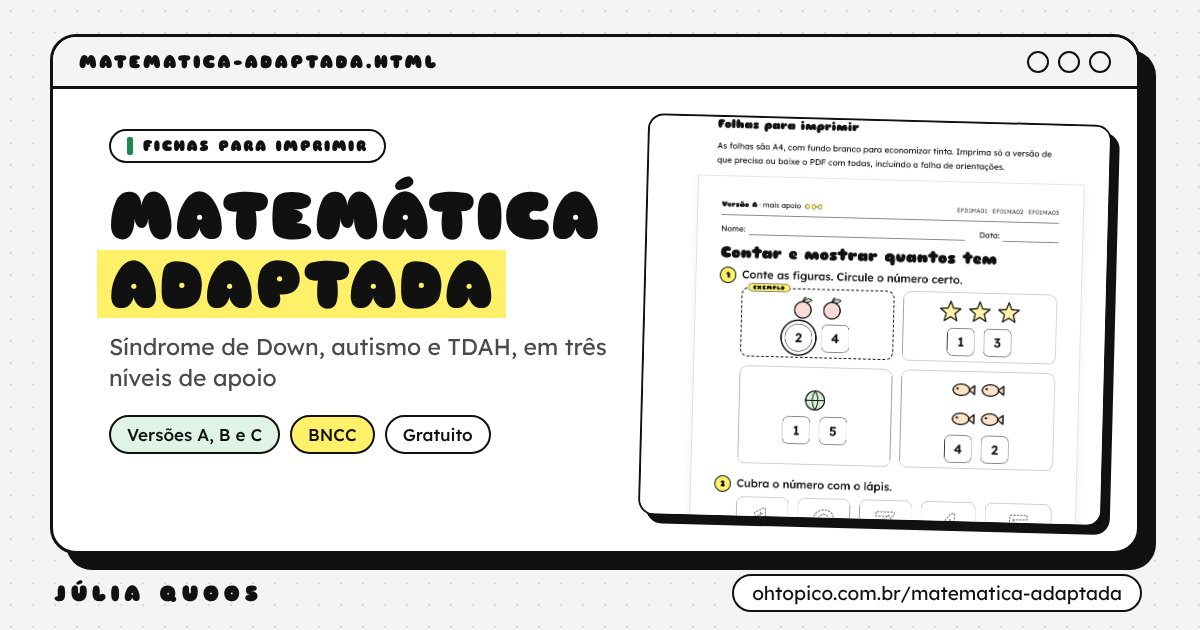
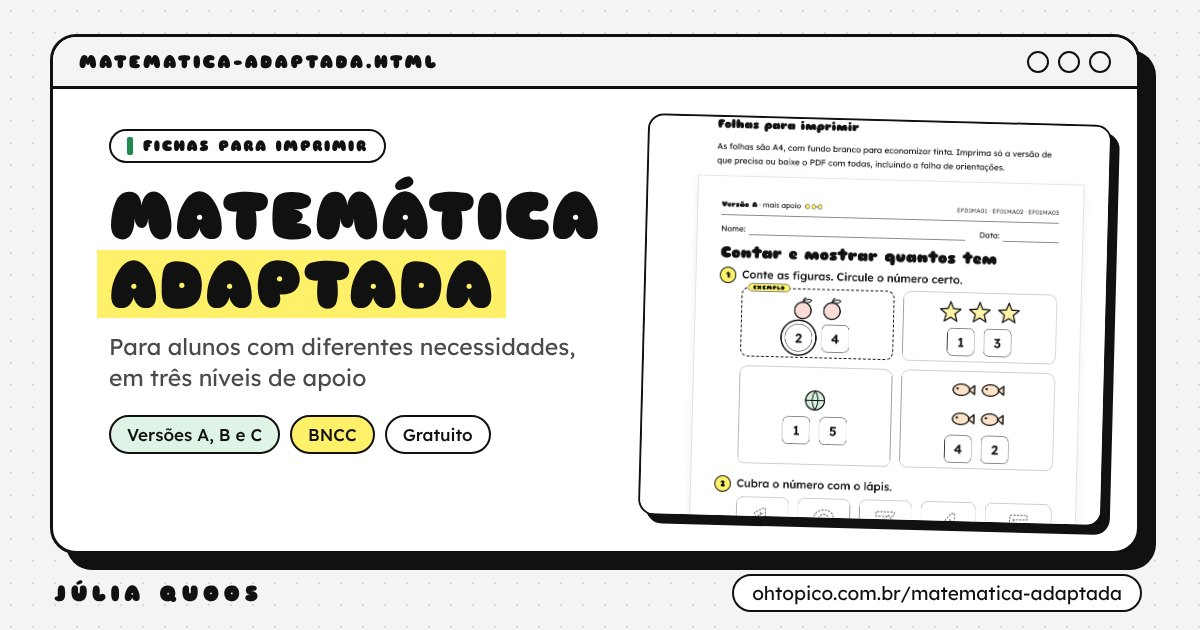
Material adaptado: tira a lista Down/autismo/TDAH das descrições restantes
Claude-Session: https://claude.ai/code/session_01Ns3ecqx4udcVUQkiCf1E6E

diff --git a/matematica-adaptada/fichas/kit-de-apoio-visual/index.html b/matematica-adaptada/fichas/kit-de-apoio-visual/index.html
@@ -4,7 +4,7 @@
 <meta charset="UTF-8">
 <meta name="viewport" content="width=device-width, initial-scale=1.0">
 <title>Kit de apoio visual: matemática adaptada | Júlia Quoos</title>
-<meta name="description" content="Reta numérica, quadros de dez, quadro de valor, cartões de número e quantidade, &quot;primeiro e depois&quot; e checklist da tarefa. Para imprimir e usar com estudantes com síndrome de Down, autismo e TDAH.">
+<meta name="description" content="Reta numérica, quadros de dez, quadro de valor, cartões de número e quantidade, &quot;primeiro e depois&quot; e checklist da tarefa. Para imprimir e usar com alunos com diferentes necessidades.">
 <meta name="author" content="Júlia Roberta Quoos Alves">
 <meta name="robots" content="index, follow">
 <link rel="canonical" href="https://ohtopico.com.br/matematica-adaptada/fichas/kit-de-apoio-visual/">
@@ -13,7 +13,7 @@
 <meta property="og:site_name" content="Júlia Quoos">
 <meta property="og:url" content="https://ohtopico.com.br/matematica-adaptada/fichas/kit-de-apoio-visual/">
 <meta property="og:title" content="Kit de apoio visual: matemática adaptada | Júlia Quoos">
-<meta property="og:description" content="Reta numérica, quadros de dez, quadro de valor, cartões de número e quantidade, &quot;primeiro e depois&quot; e checklist da tarefa. Para imprimir e usar com estudantes com síndrome de Down, autismo e TDAH.">
+<meta property="og:description" content="Reta numérica, quadros de dez, quadro de valor, cartões de número e quantidade, &quot;primeiro e depois&quot; e checklist da tarefa. Para imprimir e usar com alunos com diferentes necessidades.">
 <meta property="og:image" content="https://ohtopico.com.br/matematica-adaptada/og-matematica-adaptada.jpg">
 <meta property="og:image:width" content="1200">
 <meta property="og:image:height" content="630">
@@ -28,7 +28,7 @@
    "@id": "https://ohtopico.com.br/matematica-adaptada/fichas/kit-de-apoio-visual/#ficha",
    "url": "https://ohtopico.com.br/matematica-adaptada/fichas/kit-de-apoio-visual/",
    "name": "Kit de apoio visual",
-   "description": "Reta numérica, quadros de dez, quadro de valor, cartões de número e quantidade, \"primeiro e depois\" e checklist da tarefa. Para imprimir e usar com estudantes com síndrome de Down, autismo e TDAH.",
+   "description": "Reta numérica, quadros de dez, quadro de valor, cartões de número e quantidade, \"primeiro e depois\" e checklist da tarefa. Para imprimir e usar com alunos com diferentes necessidades.",
    "inLanguage": "pt-BR",
    "learningResourceType": "Ficha de atividade para imprimir",
    "isAccessibleForFree": true,

diff --git a/_fonte/og/gerar.js b/_fonte/og/gerar.js
@@ -113,7 +113,7 @@ const IMAGENS = [
     sub: 'O que a Lei 15.100 permite e atividades de cultura digital da BNCC', pills: ['Lei 15.100/2025', 'Uso pedagógico', '6º ano ao Médio'],
     url: 'ohtopico.com.br/lei-do-celular-nas-escolas', capturas: ['/material-didatico/bncc/'] },
   { arq: 'matematica-adaptada/og-matematica-adaptada.jpg', janela: 'matematica-adaptada.html', faixa: 'Fichas para imprimir', t1: 'Matemática', t2: 'adaptada',
-    sub: 'Síndrome de Down, autismo e TDAH, em três níveis de apoio', pills: ['Versões A, B e C', 'BNCC', 'Gratuito'],
+    sub: 'Para alunos com diferentes necessidades, em três níveis de apoio', pills: ['Versões A, B e C', 'BNCC', 'Gratuito'],
     url: 'ohtopico.com.br/matematica-adaptada', capturas: ['/matematica-adaptada/fichas/contar-e-mostrar-quantidades/#folhas'] },
   { arq: 'material-didatico/assets/og-curriculos-estaduais.jpg', janela: 'curriculos-estaduais.html', faixa: 'BNCC Computação · 27 estados', t1: 'Currículos de', t2: 'Computação',
     sub: 'Quais redes estaduais já publicaram o próprio documento, com a fonte oficial', pills: ['Mapa do Brasil', 'Fontes oficiais', 'Atualizado em 2026'],

diff --git a/matematica-adaptada/index.html b/matematica-adaptada/index.html
@@ -27,7 +27,7 @@
       "@type": "WebPage",
       "@id": "https://ohtopico.com.br/matematica-adaptada/#pagina",
       "url": "https://ohtopico.com.br/matematica-adaptada/",
-      "name": "Matemática adaptada: como usar o material para síndrome de Down, autismo e TDAH",
+      "name": "Matemática adaptada: como usar o material com alunos com diferentes necessidades",
       "description": "Como usar as fichas de matemática adaptadas para alunos com diferentes necessidades: versões A, B e C, princípios do DUA e o que costuma ajudar em cada caso. As fichas ficam no Material adaptado.",
       "inLanguage": "pt-BR",
       "primaryImageOfPage": {

diff --git a/_fonte/matematica-adaptada/gerar.py b/_fonte/matematica-adaptada/gerar.py
@@ -112,7 +112,7 @@ def pagina(f, i, total):
         titulo = f'{f["titulo"]} | Júlia Quoos'
     tem_versoes = 'A' in f['versoes']
     descricao = (f'{f["resumo"]} Ficha adaptada para alunos com diferentes necessidades, em três níveis de apoio, para imprimir. {f["anos"]}.'
-                 if tem_versoes else f'{f["resumo"]} Para imprimir e usar com estudantes com síndrome de Down, autismo e TDAH.')
+                 if tem_versoes else f'{f["resumo"]} Para imprimir e usar com alunos com diferentes necessidades.')
     pdf = f'{f["slug"]}.pdf'
     folhas = ''.join(folha(f, k, v) for k, v in f['versoes'].items()) + folha_professor(f)
     botoes = ''.join(f'<button type="button" class="btn98" data-imprimir="{esc(k)}">Imprimir {esc(k if k not in NIVEIS else "versão " + k)}</button>'

diff --git a/_fonte/blog/gerar.py b/_fonte/blog/gerar.py
@@ -1043,7 +1043,7 @@ def pagina_matematica_adaptada(cfg):
     url = f'{site}/matematica-adaptada/'
     indice, cartoes, mapa_html = cartoes_matematica_adaptada()
     corpo = (AQUI / 'conteudo' / 'matematica-adaptada.html').read_text(encoding='utf-8').strip()
-    titulo = 'Matemática adaptada: como usar o material para síndrome de Down, autismo e TDAH'
+    titulo = 'Matemática adaptada: como usar o material com alunos com diferentes necessidades'
     descricao = ('Como usar as fichas de matemática adaptadas para alunos com diferentes necessidades: '
                  'versões A, B e C, princípios do DUA e o que costuma ajudar em cada caso. As fichas ficam no Material adaptado.')
     imagem = f'{site}/matematica-adaptada/og-matematica-adaptada.jpg'
